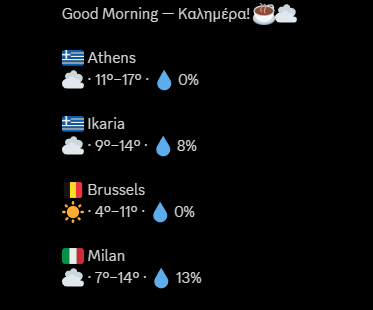
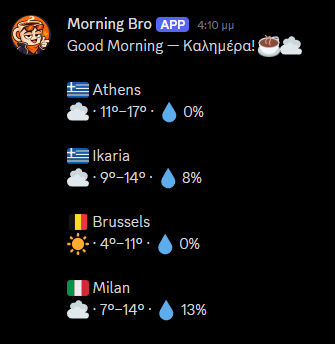
docs: new readme screenshot and wording (#11)

diff --git a/README.md b/README.md
@@ -5,9 +5,9 @@
 ![Spring Boot 4.1](https://img.shields.io/badge/Spring%20Boot-4.1-6db33f)
 [![License: MIT](https://img.shields.io/badge/License-MIT-blue)](LICENSE)
 
-A good-morning bot for a group of friends who live in different places. Every morning it posts one message to a Discord channel: a greeting, plus a quick look at the weather wherever each of you is. You pick the places, the greeting and the time zone.
+A daily good-morning post for a group of friends who live in different places. Every morning it sends one message to a Discord channel through a webhook: a greeting, plus a quick look at the weather wherever each of you is. You pick the places, the greeting and the time zone.
 
-<img src="docs/images/message.png" alt="Example Morning Bro message in Discord: a greeting, then four locations, each with a flag, place name, weather emoji, low–high temperature and rain chance" width="380">
+<img src="docs/images/message.png" alt="Example Morning Bro message in Discord, posted under the Morning Bro name and avatar: a greeting, then four locations, each with a flag, place name, weather emoji, low–high temperature and rain chance" width="335">
 
 <sub>An example message with four locations.</sub>
 
@@ -88,7 +88,7 @@ Validation rules: see [docs/architecture.md](docs/architecture.md#configuration-
 
 To run your own copy every day, fork the repo first, so the workflow and its secret live in your fork.
 
-1. Create a webhook: Discord channel, *Edit Channel*, *Integrations*, *Webhooks*, *New Webhook*, *Copy Webhook URL*. It looks like `https://discord.com/api/webhooks/<id>/<token>`. Treat the URL as a password.
+1. Create a webhook: Discord channel, *Edit Channel*, *Integrations*, *Webhooks*, *New Webhook*, *Copy Webhook URL*. It looks like `https://discord.com/api/webhooks/<id>/<token>`. Treat the URL as a password. Give the webhook a name and avatar: that is who the message appears to come from.
 2. Locally: `cp .env.example .env`, fill in `MORNING_BRO_DISCORD_WEBHOOK_URL`, then `./mvnw spring-boot:run`. `.env` is gitignored, and real environment variables override it.
 3. On GitHub (in your fork): `gh secret set MORNING_BRO_DISCORD_WEBHOOK_URL` (it prompts for the value, so the URL never lands in your shell history).
 4. Run it every morning: set up the daily trigger described in [docs/operations.md](docs/operations.md).
